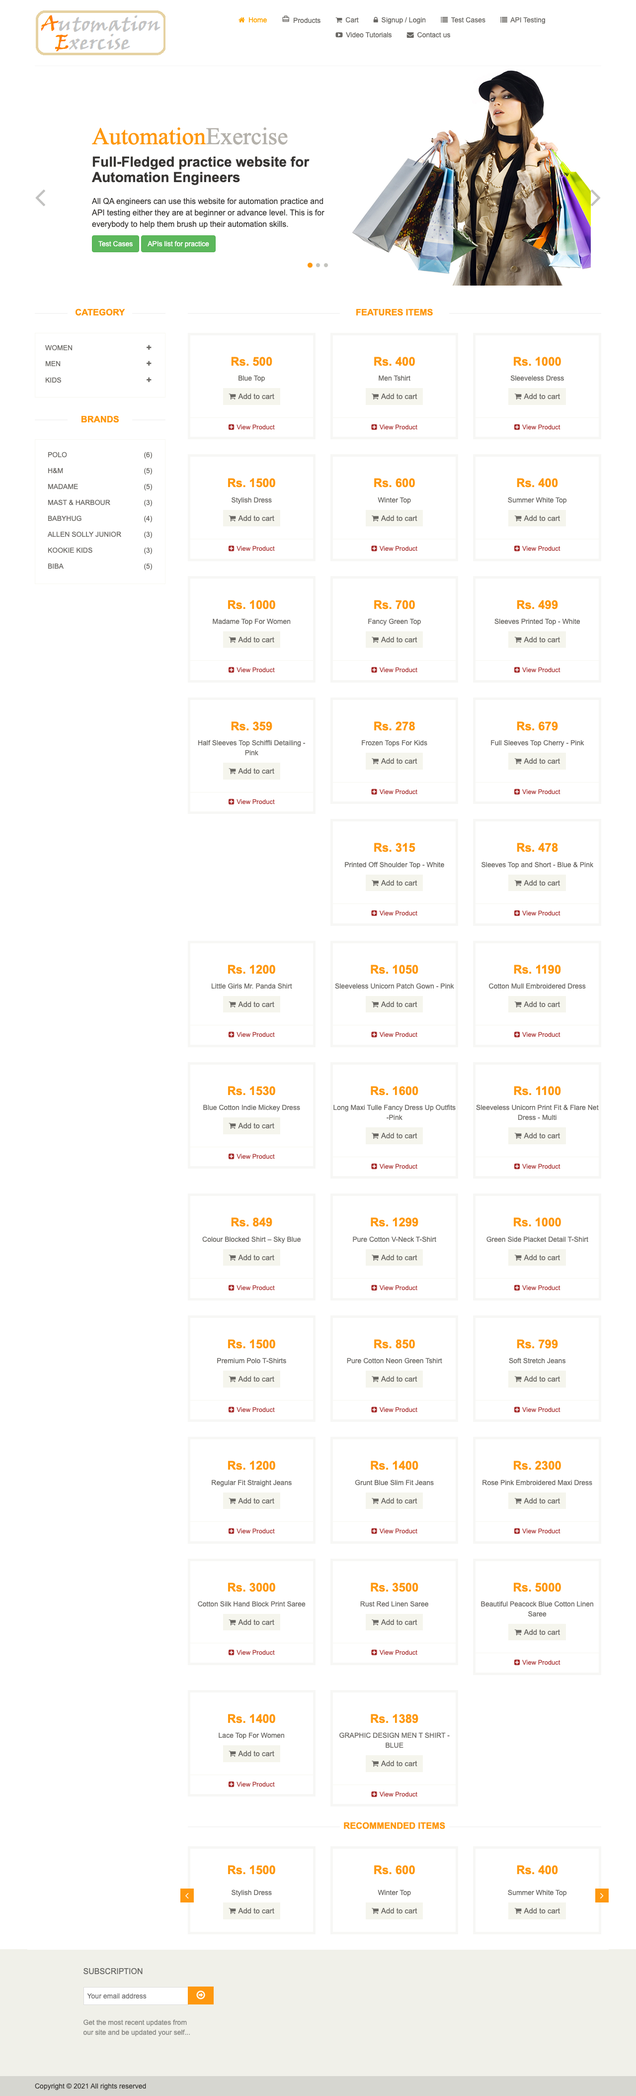
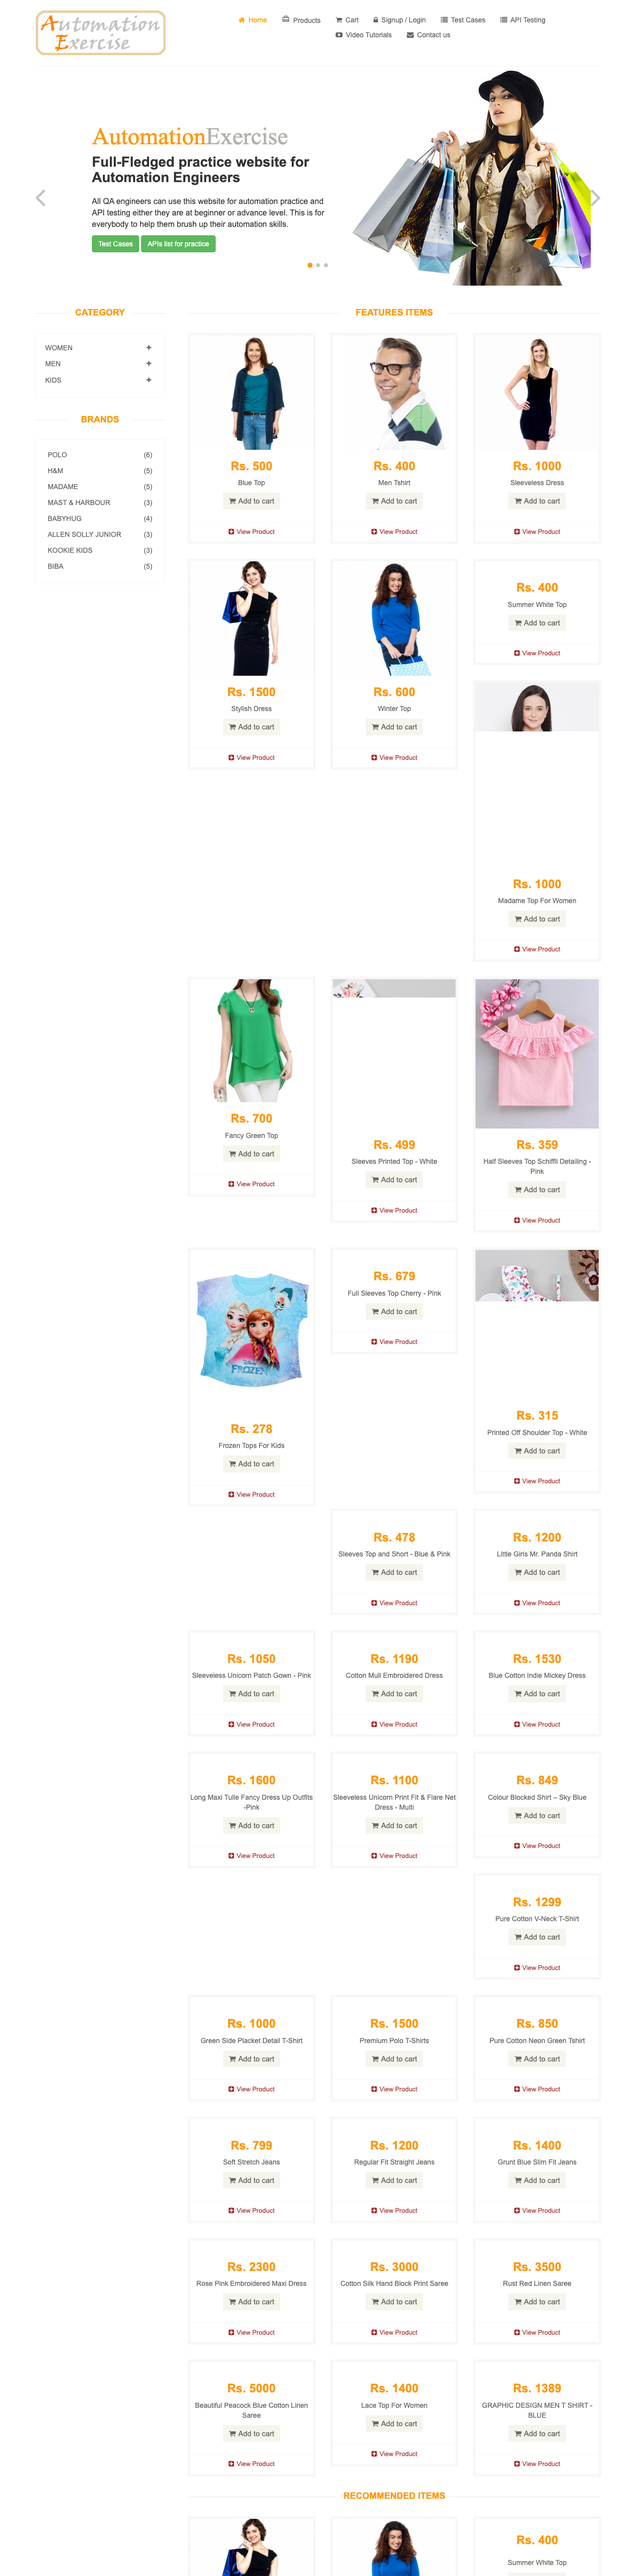
used codegen inspector for robust tests

diff --git a/tests/checkout.spec.ts b/tests/checkout.spec.ts
@@ -1,87 +1,40 @@
-/*
- My Approach for this problem statement:
-
-  This test is meant to walk through the checkout process on Automation Exercise. 
-  The plan is to start from the homepage, add the first available product to the cart, 
-  go to the cart page, and click on “Proceed To Checkout.”  
-
-  If the user is not already logged in, the test handles the login automatically using 
-  the provided test credentials. Once logged in, it continues the checkout process and 
-  verifies that the payment page (asking for card details) is displayed. Finally, it 
-  captures a screenshot of that page for confirmation. 
-
-  So, this one test covers both Step 3 (Proceed to Checkout) and Step 4 (Place the Order).
-*/
-
 import { test, expect } from '@playwright/test';
 
-test('Proceed to checkout and verify order page', async ({ page }) => {
 
-  // First, open the main Automation Exercise homepage
+test('Proceed to checkout and verify card details page', async ({ page }) => {
   await page.goto('https://automationexercise.com/');
-  await expect(page.getByRole('heading', { name: 'AutomationExercise' }).first()).toBeVisible();
+  await page.waitForLoadState('domcontentloaded');
 
-  // Next, click on “Products” from the navigation bar to make sure all products are loaded
-  await page.click('a[href="/products"]');
-  await expect(page.locator('.features_items')).toBeVisible();
+  const firstProduct = page.locator('.single-products').first();
+  await firstProduct.hover();
+  const addToCartButton = firstProduct.locator('.product-overlay a.add-to-cart');
+  await addToCartButton.click();
 
-  // Wait for the list of products to appear and grab the first one’s “Add to cart” button
-  await page.waitForSelector('.features_items .product-image-wrapper', { timeout: 10000 });
-  const addToCartBtn = page.locator('.features_items .productinfo a.btn.add-to-cart').first();
+  await page.getByRole('link', { name: /view cart/i }).waitFor({ state: 'visible' });
+  await page.getByRole('link', { name: /view cart/i }).click();
 
-  // Scroll it into view (sometimes it’s below the fold) and click it forcefully
-  await addToCartBtn.scrollIntoViewIfNeeded();
-  await addToCartBtn.click({ force: true });
+  await page.getByText('Proceed To Checkout').click();
 
-  // After clicking, a popup appears — let’s wait for “View Cart” and click it
-  await page.waitForSelector('a:has-text("View Cart")', { timeout: 10000 });
-  await page.click('a:has-text("View Cart")');
-
-  // On the cart page, make sure the cart table is visible (product added successfully)
-  await expect(page.locator('#cart_info_table')).toBeVisible();
-
-  // Now we’ll proceed to checkout
-  const proceedToCheckoutBtn = page.locator('.btn.btn-default.check_out');
-  await expect(proceedToCheckoutBtn).toBeVisible();
-  await proceedToCheckoutBtn.click();
-
-  // If the user isn’t logged in yet, the site shows a modal asking to log in
-  const registerLoginLink = page.locator('.modal-body a[href="/login"]');
-
-  // Check if that modal is visible — if yes, we’ll perform the login steps
+  const registerLoginLink = page.getByRole('link', { name: /register \/ login/i });
   if (await registerLoginLink.isVisible({ timeout: 3000 }).catch(() => false)) {
-
-    // Click “Register / Login” in the popup
     await registerLoginLink.click();
 
-    // Wait for the login page and fill credentials
-    await page.waitForURL('**/login');
-    await page.waitForSelector('input[data-qa="login-email"]');
-    await page.fill('input[data-qa="login-email"]', 'playwrighttest@example.com');
-    await page.fill('input[data-qa="login-password"]', 'GFXbtcVV@57kPSH');
-    await page.click('button[data-qa="login-button"]');
-
-    // Confirm successful login by checking for a “Logout” link
-    await expect(page.locator('a[href="/logout"]')).toBeVisible({ timeout: 10000 });
-
-    // Go back to the cart and click “Proceed To Checkout” again
-    await page.goto('https://automationexercise.com/view_cart');
-    await expect(page.locator('#cart_info_table')).toBeVisible();
-    await page.locator('.btn.btn-default.check_out').click();
+    const loginForm = page.locator('form').filter({ hasText: 'Login' });
+    await loginForm.getByPlaceholder('Email Address').fill('playwrighttest@example.com');
+    await loginForm.getByPlaceholder('Password').fill('GFXbtcVV@57kPSH');
+    await loginForm.getByRole('button', { name: 'Login' }).click();
   }
 
-  // Once we’re logged in and proceed, the “Review Your Order” section should appear
-  await expect(page.getByText('Review Your Order')).toBeVisible({ timeout: 15000 });
+  await page.goto('https://automationexercise.com/view_cart');
+  await page.getByText('Proceed To Checkout').click();
 
-  // Click on “Place Order” to move to the payment step
-  const placeOrderButton = page.getByText('Place Order', { exact: true });
-  await expect(placeOrderButton).toBeVisible();
-  await placeOrderButton.click();
+  await page.getByRole('link', { name: /place order/i }).click();
 
-  // Verify that the payment (card details) page is displayed
-  await expect(page.getByRole('heading', { name: 'Payment' })).toBeVisible();
+  await expect(page.locator('input[name="name_on_card"]')).toBeVisible();
+  await expect(page.locator('input[name="card_number"]')).toBeVisible();
+  await expect(page.locator('input[name="cvc"]')).toBeVisible();
+  await expect(page.locator('input[name="expiry_month"]')).toBeVisible();
+  await expect(page.locator('input[name="expiry_year"]')).toBeVisible();
 
-  // Capture a screenshot for record
-  await page.screenshot({ path: 'screenshots/order-page.png', fullPage: true });
-
+  await page.screenshot({ path: 'screenshots/payment-page.png', fullPage: true });
 });
